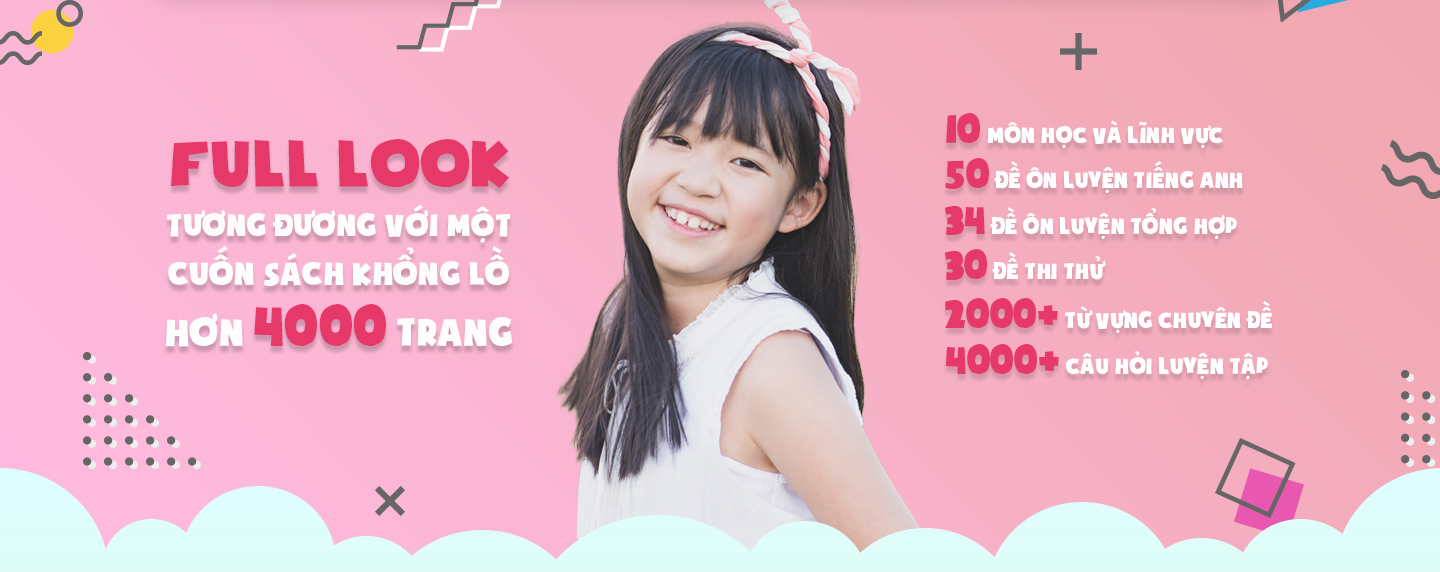
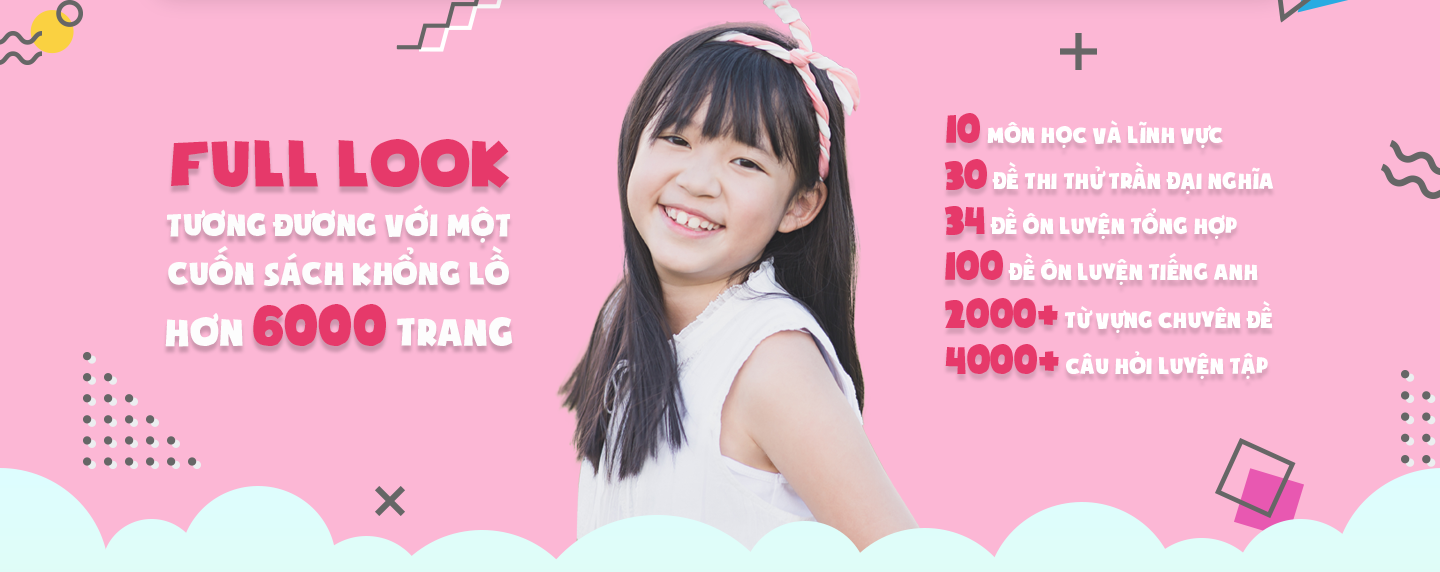
huunv

Changed region(s): [[0.5938, 0.0, 1.0, 0.8916], [0.125, 0.535, 0.2188, 0.6241], [0.2188, 0.5647, 0.25, 0.5944]]

diff --git a/assets/angular/about.js b/assets/angular/about.js
@@ -266,7 +266,7 @@ flApp.controller('AboutController', ['$scope', function($scope) {
 						<td><b>2.</b></td>
 						<td><b>Phần Ôn luyện tiếng Anh</b></td>
 						<td>
-						- <b> Gồm 80 đề ôn tập ngữ pháp tiếng Anh </b> tích hợp với các kiến thức hiểu biết xã hội
+						- <b> Gồm 100 đề ôn tập ngữ pháp tiếng Anh </b> tích hợp với các kiến thức hiểu biết xã hội
 						</td>
 					</tr>
 					

diff --git a/common/slider.php b/common/slider.php
@@ -27,7 +27,7 @@
         </div>
       </div>
       <div rel="#fcb7d5" class="carousel-item">
-        <img class="d-block w-100" src="/assets/images/slider4.png" alt="Second slide">
+        <img class="d-block w-100" src="/assets/images/sliderhong.png" alt="Second slide">
         <div class="absolute btdk d-none d-sm-block"><a class="btn btn-warning" href="/about.php#guide">Đăng kí ngay</a>
         </div>
         <div class="absolute btdk2 d-block d-sm-none"><a class="btn-xs btn-warning" href="/about.php#guide">Đăng kí ngay</a>
